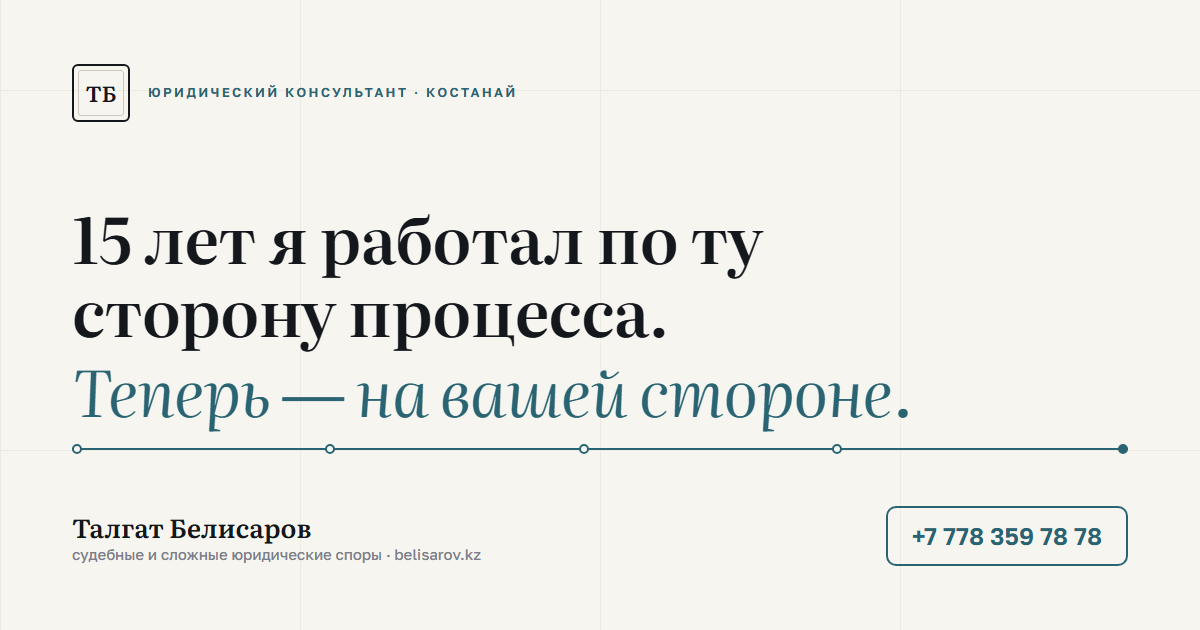
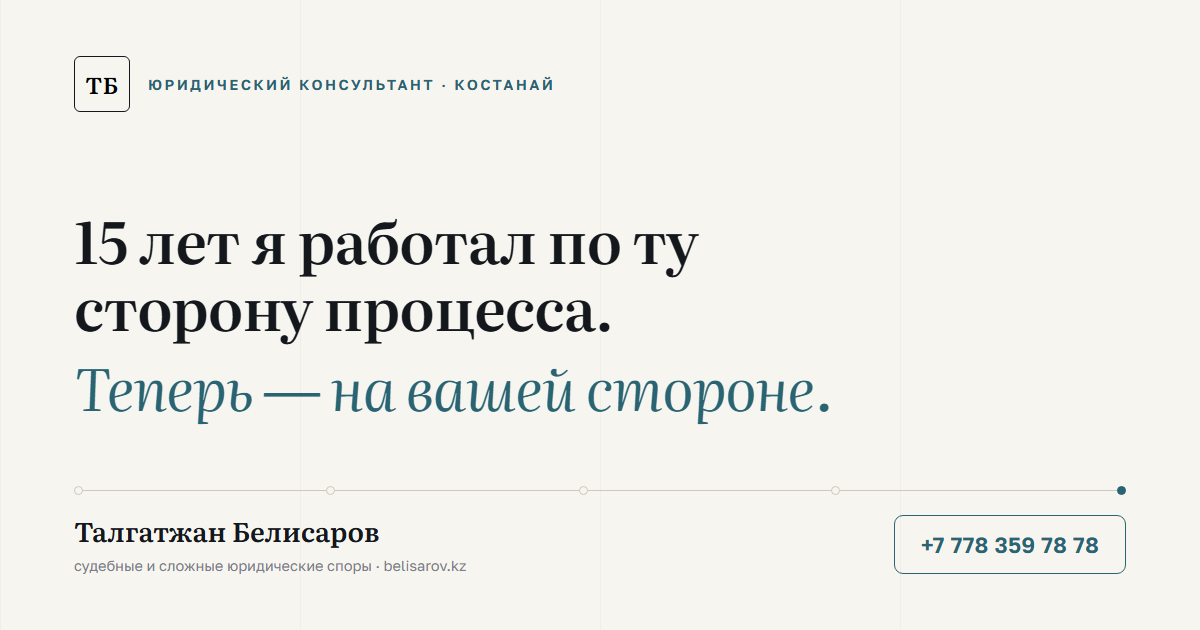
Ответы клиента: фото Талгатжана, полное имя, цена консультации от 10 000 тг
- assets/talgat.webp — реальное фото вместо заглушки-монограммы
- Талгат → Талгатжан во всех текстах, meta, JSON-LD, WhatsApp-префиллах
- og-image перерисован с полным именем
- цена в FAQ, в карточке консультаций и в JSON-LD priceRange
- фикс шапки: ниже 385px подпись бренда скрыта, иначе бургер уезжал за край
- ассеты ?v=20260826-3

diff --git a/index.html b/index.html
@@ -3,20 +3,20 @@
 <head>
 <meta charset="utf-8">
 <meta name="viewport" content="width=device-width, initial-scale=1">
-<title>Талгат Белисаров — юридический консультант в Костанае. Судебные и сложные споры</title>
+<title>Талгатжан Белисаров — юридический консультант в Костанае. Судебные и сложные споры</title>
 <meta name="description" content="Персональная юридическая практика в Костанае: представительство в судах, взыскание задолженности, налоговые споры и проверки, госзакупки, строительные и земельные споры, защита потерпевших. 15+ лет опыта: следствие, СЭР, прокуратура. Тел.: +7 778 359 78 78.">
 <link rel="canonical" href="https://belisarov.kz/">
 <meta name="theme-color" content="#171c22">
 
 <meta property="og:type" content="website">
 <meta property="og:url" content="https://belisarov.kz/">
-<meta property="og:title" content="Талгат Белисаров — юридический консультант в Костанае">
+<meta property="og:title" content="Талгатжан Белисаров — юридический консультант в Костанае">
 <meta property="og:description" content="Судебные и сложные юридические споры. 15 лет по ту сторону процесса — следствие, СЭР, прокуратура. Теперь — на вашей стороне.">
 <meta property="og:image" content="https://belisarov.kz/assets/og-image.png">
 <meta property="og:locale" content="ru_RU">
 <meta property="og:locale:alternate" content="kk_KZ">
 <meta name="twitter:card" content="summary_large_image">
-<meta name="twitter:title" content="Талгат Белисаров — юридический консультант в Костанае">
+<meta name="twitter:title" content="Талгатжан Белисаров — юридический консультант в Костанае">
 <meta name="twitter:description" content="Судебные и сложные юридические споры. 15 лет по ту сторону процесса — теперь на вашей стороне.">
 <meta name="twitter:image" content="https://belisarov.kz/assets/og-image.png">
 
@@ -27,13 +27,13 @@
 <link rel="preconnect" href="https://fonts.googleapis.com">
 <link rel="preconnect" href="https://fonts.gstatic.com" crossorigin>
 <link href="https://fonts.googleapis.com/css2?family=Literata:ital,opsz,wght@0,7..72,400;0,7..72,600;1,7..72,400&family=Golos+Text:wght@400;500;600&display=swap" rel="stylesheet">
-<link rel="stylesheet" href="styles.css?v=20260826-2">
+<link rel="stylesheet" href="styles.css?v=20260826-3">
 
 <script type="application/ld+json">
 {
   "@context": "https://schema.org",
   "@type": "LegalService",
-  "name": "Талгат Белисаров — юридический консультант",
+  "name": "Талгатжан Белисаров — юридический консультант",
   "description": "Персональная юридическая практика: представительство в судах, взыскание задолженности, налоговые споры, госзакупки, строительные и земельные споры, защита интересов потерпевших. Костанай, Казахстан.",
   "url": "https://belisarov.kz/",
   "image": "https://belisarov.kz/assets/og-image.png",
@@ -49,14 +49,15 @@
   "openingHoursSpecification": [
     { "@type": "OpeningHoursSpecification", "dayOfWeek": ["Monday","Tuesday","Wednesday","Thursday","Friday"], "opens": "09:00", "closes": "18:00" }
   ],
-  "founder": { "@type": "Person", "name": "Талгат Белисаров", "jobTitle": "Юридический консультант" },
+  "founder": { "@type": "Person", "name": "Талгатжан Белисаров", "jobTitle": "Юридический консультант" },
   "sameAs": [
     "https://instagram.com/talgatzhan_belisarov",
     "https://2gis.kz/kostanaj/firm/70000001105849400",
     "https://maps.app.goo.gl/VQDCTAfoTLtSH15a7"
   ],
   "aggregateRating": { "@type": "AggregateRating", "ratingValue": "5.0", "bestRating": "5", "reviewCount": "3" },
-  "areaServed": "Костанай и Костанайская область, Казахстан"
+  "areaServed": "Костанай и Костанайская область, Казахстан",
+  "priceRange": "Консультация от 10 000 ₸"
 }
 </script>
 </head>
@@ -67,10 +68,10 @@
 <!-- ═══════════════ HEADER ═══════════════ -->
 <header class="header" id="header">
   <div class="wrap header-in">
-    <a class="brand" href="#hero" aria-label="Талгат Белисаров — на главную">
+    <a class="brand" href="#hero" aria-label="Талгатжан Белисаров — на главную">
       <span class="brand-mark" aria-hidden="true">ТБ</span>
       <span class="brand-txt">
-        <b>Талгат Белисаров</b>
+        <b>Талгатжан Белисаров</b>
         <i data-i18n="brand.role">юридический консультант</i>
       </span>
     </a>
@@ -111,7 +112,7 @@
   </nav>
   <div class="mnav-foot">
     <a class="btn btn-dark" href="tel:+77783597878">+7 778 359 78 78</a>
-    <a class="btn btn-wa" href="https://wa.me/77783597878" data-wa="Здравствуйте, Талгат! Мне нужна юридическая консультация." data-wa-kk="Сәлеметсіз бе, Талгат! Маған заң консультациясы қажет.">WhatsApp</a>
+    <a class="btn btn-wa" href="https://wa.me/77783597878" data-wa="Здравствуйте, Талгатжан! Мне нужна юридическая консультация." data-wa-kk="Сәлеметсіз бе, Талгатжан! Маған заң консультациясы қажет.">WhatsApp</a>
     <p data-i18n="mnav.addr">Костанай, БЦ «Кеме», ул.&nbsp;Полевая,&nbsp;7/3</p>
   </div>
 </div>
@@ -137,7 +138,7 @@
           </a>
           <small data-i18n="hero.callnote">звонки пн–пт до&nbsp;20:00, сб–вс 10:00–20:00</small>
         </div>
-        <a class="btn btn-wa btn-lg" href="https://wa.me/77783597878" data-wa="Здравствуйте, Талгат! Хочу проконсультироваться по своей ситуации." data-wa-kk="Сәлеметсіз бе, Талгат! Өз жағдайым бойынша кеңес алғым келеді.">
+        <a class="btn btn-wa btn-lg" href="https://wa.me/77783597878" data-wa="Здравствуйте, Талгатжан! Хочу проконсультироваться по своей ситуации." data-wa-kk="Сәлеметсіз бе, Талгатжан! Өз жағдайым бойынша кеңес алғым келеді.">
           <svg viewBox="0 0 24 24" width="16" height="16" aria-hidden="true"><path fill="currentColor" d="M12 2a10 10 0 0 0-8.6 15.1L2 22l5-1.3A10 10 0 1 0 12 2zm0 1.8a8.2 8.2 0 1 1-4.2 15.3l-.3-.2-3 .8.8-2.9-.2-.3A8.2 8.2 0 0 1 12 3.8zM8.9 7c-.2 0-.5.1-.7.3-.2.3-.9.9-.9 2.1s.9 2.4 1 2.6c.1.2 1.8 2.8 4.3 3.8 2.1.8 2.6.7 3 .6.5 0 1.5-.6 1.7-1.2.2-.6.2-1.1.2-1.2l-.4-.2-1.5-.7c-.2-.1-.4-.1-.5.1l-.7.8c-.1.2-.3.2-.5.1a6.7 6.7 0 0 1-3.3-2.9c-.1-.2 0-.4.1-.5l.5-.6c.2-.2.2-.3.3-.5v-.5L10.8 7.4c-.2-.4-.4-.4-.5-.4h-.5z"/></svg>
           <span data-i18n="hero.wa">Написать в WhatsApp</span>
         </a>
@@ -153,13 +154,13 @@
 
     <!-- слот под портрет: assets/talgat.webp -->
     <figure class="portrait reveal d3" id="portrait">
-      <img src="assets/talgat.webp" alt="Талгат Белисаров — юридический консультант, Костанай"
+      <img src="assets/talgat.webp" alt="Талгатжан Белисаров — юридический консультант, Костанай"
            width="420" height="540" fetchpriority="high" decoding="async"
            onerror="this.closest('.portrait').classList.add('no-photo')">
       <figcaption class="portrait-card" aria-hidden="true">
         <span class="pc-top" data-i18n="portrait.top">Персональная практика</span>
         <span class="pc-mono">ТБ</span>
-        <span class="pc-name">Талгат Белисаров</span>
+        <span class="pc-name">Талгатжан Белисаров</span>
         <span class="pc-role" data-i18n="brand.role">юридический консультант</span>
         <span class="pc-bottom" data-i18n="portrait.bottom">Костанай · БЦ «Кеме»</span>
       </figcaption>
@@ -231,7 +232,7 @@
                 <li data-i18n="svc.sudy.l3">обжалование судебных решений</li>
                 <li data-i18n="svc.sudy.l4">переговоры, досудебное урегулирование, мировые соглашения</li>
               </ul>
-              <a class="svc-link" href="https://wa.me/77783597878" data-wa="Здравствуйте, Талгат! Нужна помощь по судебному спору." data-wa-kk="Сәлеметсіз бе, Талгат! Сот дауы бойынша көмек қажет." data-i18n="svc.cta">Обсудить ситуацию</a>
+              <a class="svc-link" href="https://wa.me/77783597878" data-wa="Здравствуйте, Талгатжан! Нужна помощь по судебному спору." data-wa-kk="Сәлеметсіз бе, Талгатжан! Сот дауы бойынша көмек қажет." data-i18n="svc.cta">Обсудить ситуацию</a>
             </article>
 
             <article class="svc reveal d1" id="dokumenty">
@@ -243,7 +244,7 @@
                 <li data-i18n="svc.dokumenty.l3">претензии и досудебные требования</li>
                 <li data-i18n="svc.dokumenty.l4">ходатайства, заявления в госорганы</li>
               </ul>
-              <a class="svc-link" href="https://wa.me/77783597878" data-wa="Здравствуйте, Талгат! Нужно подготовить процессуальный документ (иск, отзыв, жалобу)." data-wa-kk="Сәлеметсіз бе, Талгат! Процестік құжат (талап арыз, шағым) дайындау қажет." data-i18n="svc.cta">Обсудить ситуацию</a>
+              <a class="svc-link" href="https://wa.me/77783597878" data-wa="Здравствуйте, Талгатжан! Нужно подготовить процессуальный документ (иск, отзыв, жалобу)." data-wa-kk="Сәлеметсіз бе, Талгатжан! Процестік құжат (талап арыз, шағым) дайындау қажет." data-i18n="svc.cta">Обсудить ситуацию</a>
             </article>
 
             <article class="svc reveal" id="vzyskanie">
@@ -255,7 +256,7 @@
                 <li data-i18n="svc.vzyskanie.l3">досудебные требования, переговоры, соглашения о реструктуризации</li>
                 <li data-i18n="svc.vzyskanie.l4">обжалование действий ЧСИ, жалобы в Палату ЧСИ</li>
               </ul>
-              <a class="svc-link" href="https://wa.me/77783597878" data-wa="Здравствуйте, Талгат! Нужна помощь по взысканию задолженности." data-wa-kk="Сәлеметсіз бе, Талгат! Берешекті өндіріп алу бойынша көмек қажет." data-i18n="svc.cta">Обсудить ситуацию</a>
+              <a class="svc-link" href="https://wa.me/77783597878" data-wa="Здравствуйте, Талгатжан! Нужна помощь по взысканию задолженности." data-wa-kk="Сәлеметсіз бе, Талгатжан! Берешекті өндіріп алу бойынша көмек қажет." data-i18n="svc.cta">Обсудить ситуацию</a>
             </article>
 
             <article class="svc reveal d1" id="dogovory">
@@ -266,7 +267,7 @@
                 <li data-i18n="svc.dogovory.l2">анализ и подготовка договоров, правки условий</li>
                 <li data-i18n="svc.dogovory.l3">защита в спорах с контрагентами</li>
               </ul>
-              <a class="svc-link" href="https://wa.me/77783597878" data-wa="Здравствуйте, Талгат! У меня договорный спор, нужна консультация." data-wa-kk="Сәлеметсіз бе, Талгат! Менде шарттық дау бар, кеңес қажет." data-i18n="svc.cta">Обсудить ситуацию</a>
+              <a class="svc-link" href="https://wa.me/77783597878" data-wa="Здравствуйте, Талгатжан! У меня договорный спор, нужна консультация." data-wa-kk="Сәлеметсіз бе, Талгатжан! Менде шарттық дау бар, кеңес қажет." data-i18n="svc.cta">Обсудить ситуацию</a>
             </article>
 
             <article class="svc reveal" id="zemlya">
@@ -277,7 +278,7 @@
                 <li data-i18n="svc.zemlya.l2">обжалование незаконных актов и предписаний</li>
                 <li data-i18n="svc.zemlya.l3">правовой анализ документов на землю</li>
               </ul>
-              <a class="svc-link" href="https://wa.me/77783597878" data-wa="Здравствуйте, Талгат! Нужна помощь по земельному спору." data-wa-kk="Сәлеметсіз бе, Талгат! Жер дауы бойынша көмек қажет." data-i18n="svc.cta">Обсудить ситуацию</a>
+              <a class="svc-link" href="https://wa.me/77783597878" data-wa="Здравствуйте, Талгатжан! Нужна помощь по земельному спору." data-wa-kk="Сәлеметсіз бе, Талгатжан! Жер дауы бойынша көмек қажет." data-i18n="svc.cta">Обсудить ситуацию</a>
             </article>
 
           </div>
@@ -296,7 +297,7 @@
                 <li data-i18n="svc.biznes.l3">сопровождение проверок госорганов, возражения на акты</li>
                 <li data-i18n="svc.biznes.l4">корпоративные вопросы, регистрация и ликвидация ИП и ТОО</li>
               </ul>
-              <a class="svc-link" href="https://wa.me/77783597878" data-wa="Здравствуйте, Талгат! Интересует юридическое сопровождение бизнеса." data-wa-kk="Сәлеметсіз бе, Талгат! Бизнесті заңдық сүйемелдеу қызметі қызықтырады." data-i18n="svc.cta">Обсудить ситуацию</a>
+              <a class="svc-link" href="https://wa.me/77783597878" data-wa="Здравствуйте, Талгатжан! Интересует юридическое сопровождение бизнеса." data-wa-kk="Сәлеметсіз бе, Талгатжан! Бизнесті заңдық сүйемелдеу қызметі қызықтырады." data-i18n="svc.cta">Обсудить ситуацию</a>
             </article>
 
             <article class="svc reveal d1" id="nalogi">
@@ -308,7 +309,7 @@
                 <li data-i18n="svc.nalogi.l3">возражения на акты, обжалование результатов проверок</li>
                 <li data-i18n="svc.nalogi.l4">налоговые споры в судах</li>
               </ul>
-              <a class="svc-link" href="https://wa.me/77783597878" data-wa="Здравствуйте, Талгат! Нужна помощь по налоговому вопросу (проверка, уведомление, спор)." data-wa-kk="Сәлеметсіз бе, Талгат! Салық мәселесі бойынша көмек қажет (тексеру, хабарлама, дау)." data-i18n="svc.cta">Обсудить ситуацию</a>
+              <a class="svc-link" href="https://wa.me/77783597878" data-wa="Здравствуйте, Талгатжан! Нужна помощь по налоговому вопросу (проверка, уведомление, спор)." data-wa-kk="Сәлеметсіз бе, Талгатжан! Салық мәселесі бойынша көмек қажет (тексеру, хабарлама, дау)." data-i18n="svc.cta">Обсудить ситуацию</a>
             </article>
 
             <article class="svc reveal" id="goszakupki">
@@ -320,7 +321,7 @@
                 <li data-i18n="svc.goszakupki.l3">проверка заявок конкурентов на соответствие</li>
                 <li data-i18n="svc.goszakupki.l4">сопровождение участия в конкурсах</li>
               </ul>
-              <a class="svc-link" href="https://wa.me/77783597878" data-wa="Здравствуйте, Талгат! Вопрос по госзакупкам / тендерному спору." data-wa-kk="Сәлеметсіз бе, Талгат! Мемлекеттік сатып алу / тендерлік дау бойынша сұрағым бар." data-i18n="svc.cta">Обсудить ситуацию</a>
+              <a class="svc-link" href="https://wa.me/77783597878" data-wa="Здравствуйте, Талгатжан! Вопрос по госзакупкам / тендерному спору." data-wa-kk="Сәлеметсіз бе, Талгатжан! Мемлекеттік сатып алу / тендерлік дау бойынша сұрағым бар." data-i18n="svc.cta">Обсудить ситуацию</a>
             </article>
 
             <article class="svc reveal d1" id="stroitelstvo">
@@ -331,7 +332,7 @@
                 <li data-i18n="svc.stroitelstvo.l2">споры заказчика и подрядчика: сроки, качество, оплата</li>
                 <li data-i18n="svc.stroitelstvo.l3">претензии, акты, судебная защита</li>
               </ul>
-              <a class="svc-link" href="https://wa.me/77783597878" data-wa="Здравствуйте, Талгат! Нужна помощь по строительному спору / договору подряда." data-wa-kk="Сәлеметсіз бе, Талгат! Құрылыс дауы / мердігерлік шарты бойынша көмек қажет." data-i18n="svc.cta">Обсудить ситуацию</a>
+              <a class="svc-link" href="https://wa.me/77783597878" data-wa="Здравствуйте, Талгатжан! Нужна помощь по строительному спору / договору подряда." data-wa-kk="Сәлеметсіз бе, Талгатжан! Құрылыс дауы / мердігерлік шарты бойынша көмек қажет." data-i18n="svc.cta">Обсудить ситуацию</a>
             </article>
 
             <article class="svc reveal" id="nedra">
@@ -342,7 +343,7 @@
                 <li data-i18n="svc.nedra.l2">обращения и разъяснения в уполномоченные органы</li>
                 <li data-i18n="svc.nedra.l3">сопровождение проверок, обжалование актов и предписаний</li>
               </ul>
-              <a class="svc-link" href="https://wa.me/77783597878" data-wa="Здравствуйте, Талгат! Вопрос по недропользованию." data-wa-kk="Сәлеметсіз бе, Талгат! Жер қойнауын пайдалану бойынша сұрағым бар." data-i18n="svc.cta">Обсудить ситуацию</a>
+              <a class="svc-link" href="https://wa.me/77783597878" data-wa="Здравствуйте, Талгатжан! Вопрос по недропользованию." data-wa-kk="Сәлеметсіз бе, Талгатжан! Жер қойнауын пайдалану бойынша сұрағым бар." data-i18n="svc.cta">Обсудить ситуацию</a>
             </article>
 
           </div>
@@ -361,7 +362,7 @@
                 <li data-i18n="svc.semya.l3">алименты и порядок общения с детьми</li>
                 <li data-i18n="svc.semya.l4">наследственные дела, определение долей</li>
               </ul>
-              <a class="svc-link" href="https://wa.me/77783597878" data-wa="Здравствуйте, Талгат! Нужна консультация по семейному вопросу (развод, раздел имущества)." data-wa-kk="Сәлеметсіз бе, Талгат! Отбасы мәселесі бойынша кеңес қажет (ажырасу, мүлікті бөлу)." data-i18n="svc.cta">Обсудить ситуацию</a>
+              <a class="svc-link" href="https://wa.me/77783597878" data-wa="Здравствуйте, Талгатжан! Нужна консультация по семейному вопросу (развод, раздел имущества)." data-wa-kk="Сәлеметсіз бе, Талгатжан! Отбасы мәселесі бойынша кеңес қажет (ажырасу, мүлікті бөлу)." data-i18n="svc.cta">Обсудить ситуацию</a>
             </article>
 
             <article class="svc reveal d1" id="poterpevshie">
@@ -373,19 +374,20 @@
                 <li data-i18n="svc.poterpevshie.l3">контроль сроков проверки, анализ доказательственной базы</li>
                 <li data-i18n="svc.poterpevshie.l4">возмещение причинённого ущерба</li>
               </ul>
-              <a class="svc-link" href="https://wa.me/77783597878" data-wa="Здравствуйте, Талгат! Я потерпевшая сторона, нужна защита моих интересов." data-wa-kk="Сәлеметсіз бе, Талгат! Мен жәбірленуші тараппын, мүддемді қорғау қажет." data-i18n="svc.cta">Обсудить ситуацию</a>
+              <a class="svc-link" href="https://wa.me/77783597878" data-wa="Здравствуйте, Талгатжан! Я потерпевшая сторона, нужна защита моих интересов." data-wa-kk="Сәлеметсіз бе, Талгатжан! Мен жәбірленуші тараппын, мүддемді қорғау қажет." data-i18n="svc.cta">Обсудить ситуацию</a>
             </article>
 
             <article class="svc reveal" id="konsultacii">
               <p class="svc-idx">13</p>
               <h4 data-i18n="svc.konsultacii.t">Консультации и правовой анализ</h4>
               <ul>
-                <li data-i18n="svc.konsultacii.l1">разовая консультация и правовой анализ документов</li>
+                <li data-i18n="svc.konsultacii.l1">разовая консультация&nbsp;— от 10&nbsp;000&nbsp;₸</li>
+                <li data-i18n="svc.konsultacii.l1b">правовой анализ документов и оценка перспективы дела</li>
                 <li data-i18n="svc.konsultacii.l2">защита прав потребителей, долги, расписки, гарантийные письма</li>
                 <li data-i18n="svc.konsultacii.l3">миграционные вопросы: ВНЖ, регистрация, разрешения на работу</li>
                 <li data-i18n="svc.konsultacii.l4">банкротство физических лиц: проверка оснований, подготовка заявления</li>
               </ul>
-              <a class="svc-link" href="https://wa.me/77783597878" data-wa="Здравствуйте, Талгат! Нужна юридическая консультация." data-wa-kk="Сәлеметсіз бе, Талгат! Заң консультациясы қажет." data-i18n="svc.cta">Обсудить ситуацию</a>
+              <a class="svc-link" href="https://wa.me/77783597878" data-wa="Здравствуйте, Талгатжан! Нужна юридическая консультация." data-wa-kk="Сәлеметсіз бе, Талгатжан! Заң консультациясы қажет." data-i18n="svc.cta">Обсудить ситуацию</a>
             </article>
 
           </div>
@@ -434,7 +436,7 @@
         <p class="exp-num-cap reveal d1" data-i18n="exp.numcap">лет в праве</p>
         <blockquote class="reveal d2">
           <p data-i18n="exp.quote">«Имею опыт расследования и&nbsp;надзора уголовных дел экономической, общеуголовной направленности, должностных правонарушений. Осуществлял надзор за деятельностью государственных органов по&nbsp;вопросам защиты бизнеса, налогового законодательства, госзакупок, недропользования, жилищных отношений, строительной и&nbsp;архитектурной деятельности».</p>
-          <cite>— Талгат Белисаров</cite>
+          <cite>— Талгатжан Белисаров</cite>
         </blockquote>
       </aside>
     </div>
@@ -531,7 +533,7 @@
     <div class="faq-list">
       <div class="faq-item reveal">
         <button type="button" class="faq-q" aria-expanded="false"><span data-i18n="faq.q1">Сколько стоит консультация и ведение дела?</span><i aria-hidden="true"></i></button>
-        <div class="faq-a"><p data-i18n="faq.a1">Стоимость зависит от категории дела и объёма работы. Я называю цену после того, как пойму задачу,&nbsp;— до начала работы, без скрытых доплат. Опишите ситуацию по телефону или в WhatsApp&nbsp;— это ни к чему не обязывает.</p></div>
+        <div class="faq-a"><p data-i18n="faq.a1">Консультация платная&nbsp;— от 10&nbsp;000&nbsp;₸. Стоимость ведения дела зависит от его категории и объёма работы: цену я называю после того, как пойму задачу,&nbsp;— до начала работы, без скрытых доплат. Коротко описать ситуацию и получить ориентир по стоимости можно бесплатно&nbsp;— по телефону или в WhatsApp.</p></div>
       </div>
       <div class="faq-item reveal">
         <button type="button" class="faq-q" aria-expanded="false"><span data-i18n="faq.q2">Вы берётесь за любые дела?</span><i aria-hidden="true"></i></button>
@@ -650,7 +652,7 @@
     <div class="footer-brand">
       <span class="brand-mark" aria-hidden="true">ТБ</span>
       <div>
-        <b>Талгат Белисаров</b>
+        <b>Талгатжан Белисаров</b>
         <p data-i18n="footer.role">Юридический консультант · Костанай</p>
       </div>
     </div>
@@ -660,10 +662,10 @@
       <a href="mailto:t.belisarov@gmail.com">t.belisarov@gmail.com</a>
       <a href="https://instagram.com/talgatzhan_belisarov" target="_blank" rel="noopener">Instagram</a>
     </div>
-    <p class="footer-copy">© 2026 <span data-i18n="footer.copy">Талгат Белисаров, Костанай</span></p>
+    <p class="footer-copy">© 2026 <span data-i18n="footer.copy">Талгатжан Белисаров, Костанай</span></p>
   </div>
 </footer>
 
-<script src="script.js?v=20260826-2" defer></script>
+<script src="script.js?v=20260826-3" defer></script>
 </body>
 </html>

diff --git a/script.js b/script.js
@@ -17,11 +17,11 @@
 
   var META = {
     ru: {
-      title: "Талгат Белисаров — юридический консультант в Костанае. Судебные и сложные споры",
+      title: "Талгатжан Белисаров — юридический консультант в Костанае. Судебные и сложные споры",
       desc: "Персональная юридическая практика в Костанае: представительство в судах, взыскание задолженности, налоговые споры и проверки, госзакупки, строительные и земельные споры, защита потерпевших. 15+ лет опыта: следствие, СЭР, прокуратура. Тел.: +7 778 359 78 78."
     },
     kk: {
-      title: "Талгат Белисаров — Қостанайдағы заң консультанты. Сот даулары және күрделі даулар",
+      title: "Талгатжан Белисаров — Қостанайдағы заң консультанты. Сот даулары және күрделі даулар",
       desc: "Қостанайдағы жеке заң практикасы: сотта өкілдік ету, берешекті өндіріп алу, салықтық даулар мен тексерулер, мемлекеттік сатып алу, құрылыс және жер даулары, жәбірленушілерді қорғау. 15+ жыл тәжірибе: тергеу, ЭТҚ, прокуратура. Тел.: +7 778 359 78 78."
     }
   };
@@ -136,7 +136,8 @@
     "svc.poterpevshie.l4": "келтірілген залалды өтеу",
 
     "svc.konsultacii.t": "Консультациялар және құқықтық талдау",
-    "svc.konsultacii.l1": "бір реттік консультация және құжаттарды құқықтық талдау",
+    "svc.konsultacii.l1": "бір реттік консультация&nbsp;— 10&nbsp;000&nbsp;₸-ден бастап",
+    "svc.konsultacii.l1b": "құжаттарды құқықтық талдау және істің болашағын бағалау",
     "svc.konsultacii.l2": "тұтынушылар құқығын қорғау, борыштар, қолхаттар, кепілдік хаттар",
     "svc.konsultacii.l3": "көші-қон мәселелері: ықтиярхат, тіркеу, жұмысқа рұқсат",
     "svc.konsultacii.l4": "жеке тұлғалардың банкроттығы: негіздерді тексеру, арыз дайындау",
@@ -179,7 +180,7 @@
 
     "faq.h2": "Жүгінер алдында қойылатын сұрақтар",
     "faq.q1": "Консультация және істі жүргізу қанша тұрады?",
-    "faq.a1": "Құны істің санаты мен жұмыс көлеміне байланысты. Бағаны тапсырманы түсінгеннен кейін&nbsp;— жұмыс басталғанға дейін, жасырын қосымша төлемсіз айтамын. Жағдайыңызды телефон немесе WhatsApp арқылы сипаттаңыз&nbsp;— бұл ешнәрсеге міндеттемейді.",
+    "faq.a1": "Консультация ақылы&nbsp;— 10&nbsp;000&nbsp;₸-ден бастап. Істі жүргізу құны оның санаты мен жұмыс көлеміне байланысты: бағаны тапсырманы түсінгеннен кейін&nbsp;— жұмыс басталғанға дейін, жасырын қосымша төлемсіз айтамын. Жағдайыңызды қысқаша сипаттап, құн бойынша бағдар алу тегін&nbsp;— телефон немесе WhatsApp арқылы.",
     "faq.q2": "Кез келген іске кірісесіз бе?",
     "faq.a2": "Жоқ. Алдымен құжаттарды талдап, істің болашағын бағалаймын. Заң мен практика бойынша мүмкіндік болмаса&nbsp;— мұны тікелей айтып, себебін түсіндіремін. Сіз алдын ала ұтылатын процеске ақша төлемейсіз.",
     "faq.q3": "Заң консультанты адвокаттан немен ерекшеленеді?",
@@ -215,7 +216,7 @@
 
     "footer.role": "Заң консультанты · Қостанай",
     "footer.note": "Адвокат мәртебесі талап етілмейтін істер бойынша заң көмегін көрсетемін. Қылмыстық процесте&nbsp;— жәбірленуші тараптың мүддесін қорғау.",
-    "footer.copy": "Талгат Белисаров, Қостанай"
+    "footer.copy": "Талгатжан Белисаров, Қостанай"
   };
 
   /* снимок RU-оригиналов с DOM */
@@ -379,8 +380,8 @@
         return;
       }
       var text = currentLang === "kk"
-        ? "Сәлеметсіз бе, Талгат! Менің атым " + name + ". Телефон: " + phone + ". Жағдай: " + msg
-        : "Здравствуйте, Талгат! Меня зовут " + name + ". Телефон: " + phone + ". Ситуация: " + msg;
+        ? "Сәлеметсіз бе, Талгатжан! Менің атым " + name + ". Телефон: " + phone + ". Жағдай: " + msg
+        : "Здравствуйте, Талгатжан! Меня зовут " + name + ". Телефон: " + phone + ". Ситуация: " + msg;
       window.open("https://wa.me/" + WA_PHONE + "?text=" + encodeURIComponent(text), "_blank", "noopener");
       /* сюда позже добавится gtag('event', 'form_submit', …) */
       done.hidden = false;

diff --git a/styles.css b/styles.css
@@ -856,6 +856,13 @@ html.shotmode .marquee-track { animation: none !important; }
   .rev-score { grid-template-columns: auto 1fr; }
 }
 
+/* с полным именем «Талгатжан Белисаров» строка бренда перестаёт помещаться в шапку
+   уже на 375px — бургер уезжает за край. Ниже 385px оставляем только знак «ТБ»:
+   кнопка звонка и переключатель языка важнее подписи, имя всё равно стоит в первом экране. */
+@media (max-width: 385px) {
+  .brand-txt { display: none; }
+}
+
 @media (max-width: 400px) {
   .steps { grid-template-columns: 1fr; }
   .hero h1 { font-size: 31px; }
